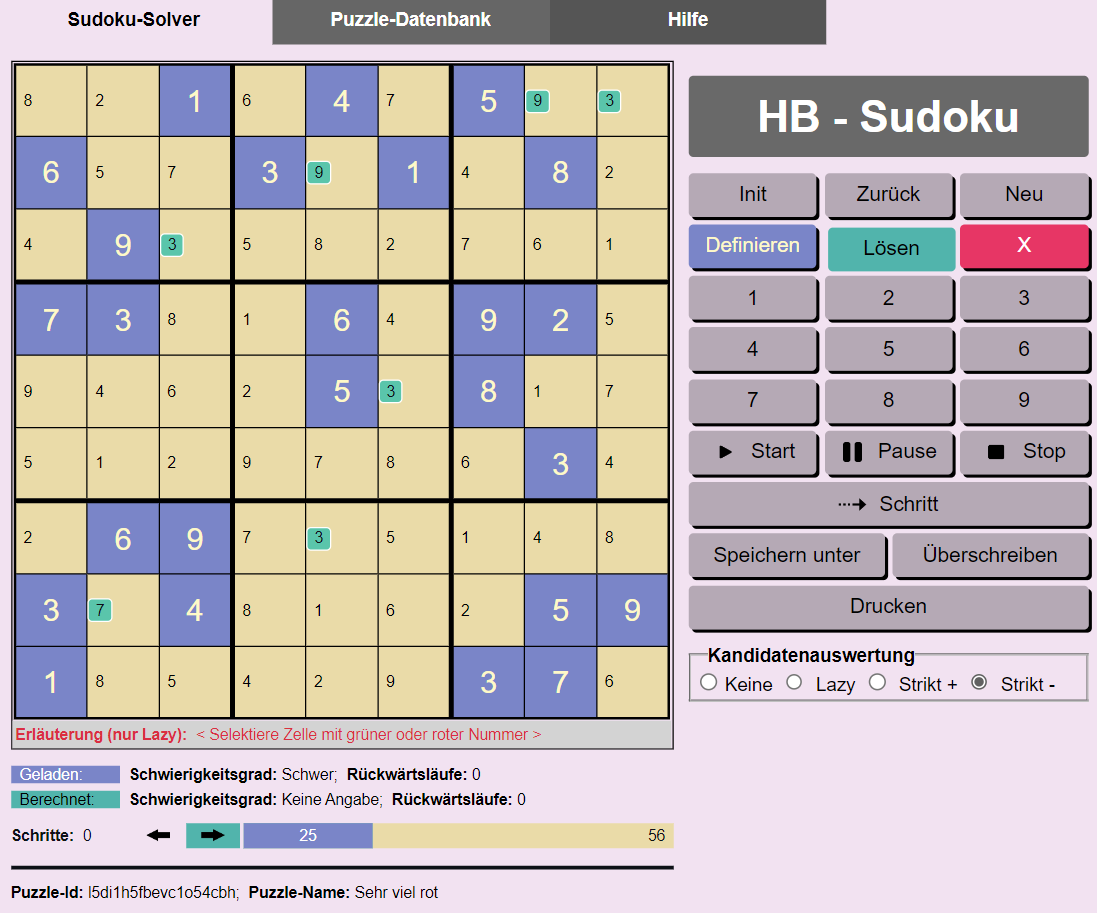
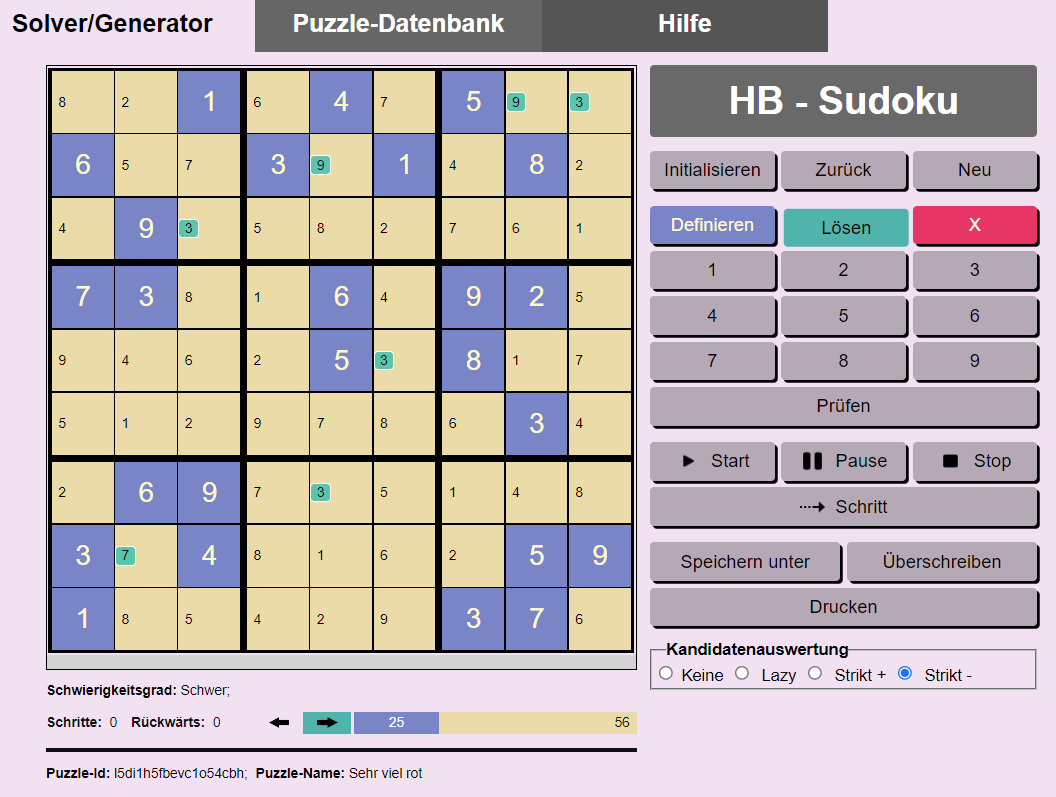
HelpUpdate

diff --git a/index.html b/index.html
@@ -22,7 +22,7 @@
     <div class="app-content">
         <div class="tablink-container">
             <!-- The 3 tabs of the app-->
-            <button class="tablink noprint tablinksolver" id="sudoku-grid-tab">Sudoku-Solver</button>
+            <button class="tablink noprint tablinksolver" id="sudoku-grid-tab">Solver/Generator</button>
             <button class="tablink noprint tablinkdatabase" id="puzzle-db-tab">Puzzle-Datenbank</button>
             <button class="tablink noprint tablinkhelp" id="puzzle-help-tab">Hilfe</button>
         </div>

diff --git a/help.md b/help.md
@@ -6,23 +6,23 @@ layout: default
 
 ## Ein Generator und Solver für klassisches Sudoku
 
-Wer kennt das nicht? Beim Kaffeetrinken ein Sudoku lösen. Nach jahrelanger Erfahrung ist man spürbar besser geworden. Und dann kommt ein Puzzle, manchmal sogar nur als leicht klassifiziert, und man findet partout nicht die nächste Zelle mit einer eindeutigen Nummernbelegung. Anstatt den Kaffeetisch frustriert zu verlassen, kann man die HB-Sudoku-App und den darin enthaltenen Solver nutzen. Er löst jedes Sudoku in wenigen Sekunden.
+Wer kennt das nicht? Beim Kaffeetrinken ein Sudoku lösen. Nach jahrelanger Erfahrung ist man spürbar besser geworden. Und dann kommt ein Puzzle, manchmal sogar nur als leicht klassifiziert, und man findet partout nicht die nächste Zelle mit einer eindeutigen Nummernbelegung. Anstatt den Kaffeetisch frustriert zu verlassen, kann man die HB-Sudoku-App und den darin enthaltenen Solver nutzen, auf dem PC oder mit dem Smartphone. Die App löst jedes Sudoku-Puzzle in wenigen Sekunden.
 
 Das tun andere Sudoku-Solver auch. Die Besonderheit des HB-Sudoku-Solvers besteht darin, dass man ihm bei der Lösungssuche zuschauen kann. Schritt für Schritt kann man beobachten und verstehen, wie der Solver zur Lösung des Sudokus gelangt. Alternativ kann man sich auch einfach nur einen nächsten möglichen Schritt zeigen lassen und dann von Hand weitermachen.
 
 Zusammen mit der Lösung bestimmt der Solver den tatsächlichen Schwierigkeitsgrad des Sudokus. Sehr schwere Sudokus - Definition siehe unten - sind manuell kaum zu lösen. Sie sollten daher kein Grund für Frust sein. Konsequenz: Mit der HB-Sudoku-App macht das Sudokulösen Spaß, auch wenn mal ein schweres Puzzle dabei ist.
 
-Der Generator generiert faire Puzzles mit den Schwierigkeitsgraden Leicht, Mittel und Schwer. Im Gegensatz zu sehr schweren oder extrem schweren Puzzles - Definition der Schwierigkeitsgrade erfolgt weiter unten - können die generierten Puzzles allein durch logisches Schließen gelöst werden. Sie benötigen kein "Trial and Error", kein Raten und Probieren.
+Der Generator generiert faire Puzzles mit den Schwierigkeitsgraden Leicht, Mittel und Schwer. Im Gegensatz zu Sehr Schweren oder Extrem Schweren Puzzles - Definition der Schwierigkeitsgrade erfolgt weiter unten - können die generierten Puzzles allein durch logisches Schließen gelöst werden. Sie benötigen kein "Back-Tracking", kein kein Raten und Probieren.
 
 ## App-Überblick
 
 ![Anwendungsansicht](./images/AppView.png)
 
-Die HB-Sudoku-App besteht aus zwei Komponenten, dem Sudoku-Solver/Generator und der Puzzle-Datenbank. Mit Hilfe des Sudoku-Solvers kann man beliebige Sudoku-Puzzles, manuell oder automatisch lösen. Mittels des Sudoku-Generators kann man neue Puzzles generieren. In der Puzzle-Datenbank können Puzzles mit ihren Eigenschaften, etwa dem Schwierigkeitsgrad, den benötigten Lösungsschritten und der Lösung selbst gespeichert werden.
+Die HB-Sudoku-App besteht aus zwei Komponenten, dem Solver/Generator und der Puzzle-Datenbank. Mit Hilfe des Solvers kann man beliebige Sudoku-Puzzles manuell oder automatisch lösen. Mittels des Generators kann man neue Puzzles generieren. In der Puzzle-Datenbank können Puzzles mit ihren Eigenschaften, etwa dem Schwierigkeitsgrad, den benötigten Lösungsschritten und der Lösung selbst gespeichert werden.
 
-## Der Sudoku-Solver
+## Der Solver
 
-Ein Sudoku (oder auch Puzzle) ist eine partiell gefüllte Tabelle. Die Tabelle hat 9 Reihen, 9 Spalten und 9 Blöcke. Die initial gesetzten Nummern heißen Givens. Sie werden blau unterlegt angezeigt. Grün unterlegte Zellen enthalten Lösungsnummern, die vom Spieler oder dem Solver gesetzt wurden. Reihen, Spalten und Blöcke haben einen gemeinsamen Oberbegriff: Die Gruppe. Jede Reihe, Spalte und jeder Block ist eine Gruppe.
+Ein Sudoku bzw. ein Puzzle ist eine partiell gefüllte Tabelle. Die Tabelle hat 9 Reihen, 9 Spalten und 9 Blöcke. Die initial gesetzten Nummern heißen Givens. Sie werden blau unterlegt angezeigt. Grün unterlegte Zellen enthalten Lösungsnummern, die vom Spieler oder dem Solver gesetzt wurden. Reihen, Spalten und Blöcke haben einen gemeinsamen Oberbegriff: Die Gruppe. Jede Reihe, Spalte und jeder Block ist eine Gruppe.
 
 Der Spieler kann sich bei der Lösungssuche unterstützen lassen, indem er in den noch nicht gesetzten Zellen Kandidatennummern anzeigen lässt. Kandidatennummern einer Zelle sind Nummern, die ohne Widerspruch gesetzt werden können. Damit die Kandidatennummern angezeigt werden, muss der Spieler in dem Feld Kandidatenauswertung eine Option ungleich "Keine" selektieren, beispielsweise "Lazy". Weiter unten wird das Konzept der Kandidatenauswertung im Detail eingeführt.
 
@@ -60,7 +60,7 @@ Die nachfolgend verwendeten Begriffe sind im Laufe der Entwicklung dieses Solver
 |<img src="./images/direkterSingle.png" width="100px"/> <img src="./images/indirekterSingle.png" width="100px"/>| **Single:** Eine Single-Nummer ist der Kandidat in einer Zelle, wenn es keine weiteren Kandidaten in der Zelle gibt. In den beiden nebenstehenden Beispielen sind die 1 und die 9 Singles. Im Gegensatz zur 1 ist die 9 ein **Verstecktes Single**. Die 9 ist in dieser Zelle ein verstecktes Single, weil die anderen Kandidaten, die rote 5 und 6, indirekt unzulässig sind. |
 |<img src="./images/nochoice.png" width="100px"/><img src="./images/nochoice2.png" width="100px"/>|**Widerspruch - Überhaupt keine zulässige Nummer:** Für diese Zelle wurde noch keine Nummer gesetzt. Allerdings gibt es keine Kandidatnummer mehr, die noch gesetzt werden könnte. Die Nummern 4 und 8 sind unzulässig. In der zweiten dargestellten Zelle gibt es nicht mal mehr Kandidatnummern. D.h. das Sudoku ist widersprüchlich. Wenn das Sudoku noch erfolgreich gelöst werden soll, müssen ein oder mehrere der bisherigen Nummernsetzungen zurückgenommen werden. Tritt während der automatischen Ausführung eine solche Zelle auf, schaltet der Solver in den Rückwärts-Modus um.|
 |<img src="./images/twoNeccessary.png" width="100px"/>|**Widerspruch - Gleichzeitig verschiedene notwendige Nummern:** Für diese Zelle wurde noch keine Nummer gesetzt. Kandidatnummern sind 1, 2 und 4. Jedoch hat der Solver zwei verschiedene notwendige Nummern für diese Zelle ermittelt: 1 und 2. Das geht natürlich nicht. Es können in einer Zelle nicht zwei Nummern gleichzeitig gesetzt werden. D.h. das Sudoku ist widersprüchlich. Wenn das Sudoku noch erfolgreich gelöst werden soll, müssen ein oder mehrere der bisherigen Nummernsetzungen zurückgenommen werden. Tritt während der automatischen Ausführung eine solche Zelle auf, schaltet der Solver in den Rückwärts-Modus um.|
-|<img src="./images/conflct.png" width="100px"/>|**Widerspruch - Die Nummer 3 ist bereits einmal gesetzt:** Für diese Zelle wurde die Nummer 3 gesetzt. Diese Nummer ist direkt unzulässig, weil in der Spalte, Reihe oder dem Block dieser Zelle bereits eine 3 gesetzt ist. Das zweite oder dritte Auftreten der Nummer wird ebenfalls mit rotem Rand angezeigt.|
+|<img src="./images/conflct.png" width="100px"/>|**Widerspruch - Die Nummer 5 ist bereits einmal gesetzt:** Für diese Zelle wurde die Nummer 5 gesetzt. Diese Nummer ist direkt unzulässig, weil in der Spalte, Reihe oder dem Block dieser Zelle bereits eine 5 gesetzt ist. Das zweite oder dritte Auftreten der Nummer wird ebenfalls mit rotem Rand angezeigt.|
 ||**Prüfen - Die Nummer ist falsch gesetzt, wie die Prüfen-Taste ermittelt hat:** Wenn ein Spieler ohne die Kandidaten-Nummern manuell die Nummern setzt, kann er jederzeit mittels der Prüfen-Taste ermitteln, ob alle seine bisherigen Nummern korrekt gesetzt sind. Alle nicht korrekten Setzungen werden wie der Widerspruch angezeigt.|
 
 ### Zwei Phasen
@@ -74,7 +74,7 @@ Hinweis: Gegebene Nummern, die Givens - dies sind blaue Nummern - können in der
 
 ### Manuelle Ausführung
 
-Manuelle Ausführung bedeutet, dass der Spieler die Nummern in den Zellen setzt. Die manuelle Ausführung wird in jedem Fall in der Definitionsphase genutzt. In der Lösungsphase ist sie optional. Die Lösungsphase kann alternativ auch automatisch durchgeführt werden. D.h. der Solver setzt die Nummern in den Zellen.
+Manuelle Ausführung bedeutet, dass der Spieler die Lösungsnummern (grün) in den Zellen setzt. Die Lösungsphase kann alternativ auch automatisch durchgeführt werden. D.h. der Solver setzt die Lösungsnummern in den Zellen.
 
 ### Manuelle Ausführung ohne Kandidatennummern
 
@@ -84,7 +84,7 @@ Indem man die Kandidatenauswertung auf 'Keine' setzt, wird die Kandidatenanzeige
 
 |Taste  |Bedeutung  |
 |---------|---------|
-|**Start**|Der Solver startet den automatischen Lösungssuchprozess. Zusätzlich wird ein Timer gestartet, der in der eingestellten Geschwindigkeit die Ausführung automatischer Suchschritte anstößt.|
+|**Start**|Der Solver startet den automatischen Lösungssuchprozess. Zusätzlich wird ein Timer gestartet, der die Ausführung automatischer Suchschritte anstößt.|
 |**Pause**|Der Taktgeber der automatischen Ausführung wird angehalten, nicht jedoch der Suchprozess abgebrochen. Der Spieler kann jetzt weitere automatische Suchschritte mit der Schritt-Taste von Hand anstoßen. Oder er kann durch das erneute Drücken der Start-Taste die getaktete automatische Ausführung fortsetzen.|
 |**Stop**|Der Taktgeber der automatischen Ausführung wird angehalten und der aktuelle Suchprozess wird abgebrochen.|
 |**Schritt**|Der Solver führt den nächsten automatischen Suchschritt aus. Falls noch nicht geschehen, startet er zuvor den Suchprozess überhaupt. Mit dieser Taste kann man den Solver Schritt für Schritt arbeiten lassen und so jeden einzelnen seiner Schritte beobachten und verstehen.|
@@ -102,22 +102,22 @@ Indem man die Kandidatenauswertung auf 'Keine' setzt, wird die Kandidatenanzeige
 
 ### Kandidaten und unzulässige Nummern
 
-Für eine noch nicht belegte Zelle der Sudoku-Tabelle unterscheiden wir Kandidatnummern und unzulässge Nummern. Für eine unbelegte Zelle ist eine Nummer **unzulässig**, wenn in dem Block, in der Reihe oder Spalte dieser Zelle eine andere Zelle existiert, in der diese Nummer gesetzt ist. Alle anderen Nummern heißen **Kandidatnummern (Candidates)** oder einfach **Kandidaten** dieser Zelle. In einer unbelegten Zelle werden die Kandidaten der Zelle angezeigt.
+Für eine noch nicht belegte Zelle der Sudoku-Tabelle unterscheiden wir Kandidatnummern und unzulässge Nummern. Für eine unbelegte Zelle ist eine Nummer **unzulässig**, wenn in dem Block, in der Reihe oder Spalte dieser Zelle eine andere Zelle existiert, in der diese Nummer gesetzt ist. Alle anderen Nummern heißen **Kandidatnummern** oder einfach **Kandidaten** dieser Zelle. In einer unbelegten Zelle werden die Kandidaten der Zelle angezeigt, sofern im Feld Kandidatenauswertung nicht der Wert "Keine" gesetzt ist.
 
 ### Notwendige Nummern
 
 ![Lazy notwendig](./images/lazynotwendig.png)
-Eine Kandidatnummer in einer Zelle ist notwendig, wenn die Nummer in ihrem Block, in ihrer Reihe oder Spalte einzig ist. D.h. sie kann nur hier gesetzt werden. Im Bild ist die grüne 1 notwendig, weil sie in ihrem Block kein weiteres mal zulässig ist. Im Lazy-Auswertungsmodus zeigt der Solver den die Notwendigkeit verursachenden Block, Spalte oder Reihe an, wenn man die Zelle mit der notwendigen Nummer selektiert hat.
+Eine Kandidatnummer in einer Zelle ist notwendig, wenn die Nummer in ihrem Block, in ihrer Reihe oder Spalte einzig ist. D.h. sie kann nur hier gesetzt werden. Im Bild ist die grüne 1 notwendig, weil sie in ihrem Block kein weiteres mal zulässig ist. Im Lazy-Auswertungsmodus zeigt der Solver den die Notwendigkeit verursachenden Block, Spalte oder Reihe an, wenn man die Zelle mit der notwendigen Nummer selektiert hat. Die Zellen des Blocks besitzen einen grün gestrichelten Rahmen.
 
 ### Unzulässige Kandidaten
 
-**Direkt unzulässige Nummern** sind Nummern, die in einem Block, in einer Spalte oder Reihe bereits einmal existieren. Direkt unzulässige Nummern können keine Kandidaten sein. Es gibt jedoch auch unzulässige Kandidaten. **Unzulässige Kandidaten** werden rot angezeigt. Eine Kandidatnummer ist (indirekt) unzulässig, wenn ihre Setzung in der Zelle das Puzzle widerspruchsvoll macht.
+**Direkt unzulässige Nummern** sind Nummern, die in einem Block, in einer Spalte oder Reihe bereits einmal existieren. Direkt unzulässige Nummern können keine Kandidaten sein. Es gibt jedoch auch unzulässige Kandidaten. **Unzulässige Kandidaten** werden in roter Schrift angezeigt. Eine Kandidatnummer ist (indirekt) unzulässig, wenn ihre Setzung in der Zelle das Puzzle widerspruchsvoll macht.
 
 In fairen Puzzles kann man unzulässige Kandidaten allein durch logisches Schließen unter Anwendung definierter Kriterien ohne Backtracking erkennen. In der Literatur werden zahlreiche Kriterien genannt. Grundsätzlich ist die rein logische Erkennung der Unzulässigkeit von Kandidaten unvollständig. D.h. es gibt so schwere Puzzles, dass nicht alle unzulässigen Kandidaten mittels der Anwendung von Kriterien erkannt werden können. Solche Sudokus können nur durch Backtracking gelöst werden. Der vorliegende Solver unterstützt nachfolgend beschriebene Kriterien für das Erkennen der Unzulässigkeit von Kandidaten. Falls diese für das Lösen eines konkreten Puzzles nicht ausreichen, löst der Solver das Puzzle durch Backtracking.
 
 1. **Kriterium: Unzulässig wegen notwendiger Nummer.** Eine Kandidatnummer ist unzulässig wegen einer notwendigen Nummer, wenn sie in ihrer Spalte, Reihe oder ihrem Block auch als notwendige Nummer auftritt. Im nachfolgenden Beispiel sind die roten Nummern 1 wegen der grünen 1 unzulässig. Die grüne 1 ist notwendig, weil sie in ihrem Block einzig ist, also in dem Block kein weiteres mal zulässig ist.![Indirekt wegen notwendig](./images/indirektwgnotwendig.png)
 
-1. **Kriterium: Unzulässig wegen "Nacktes Paar".** Eine Kandidatnummer ist unzulässig, wenn es in einem Block, einer Reihe oder Spalte Paare gibt und Nummern dieser Paare zusätzlich in weiteren Zellen dieses Blocks, dieser Spalte oder Reihe auftauchen. Im nachfolgenden Beispiel ist das 2-8-Paar ein nacktes Paar. Das 2-8-Paar macht in seiner Spalte alle 2 und 8 unzulässig. Der Grund: Das Paar bedeutet, dass die 2 und die 8 auf jeden Fall in einer der beiden Zellen des Paares gesetzt werden muss. Aktuell steht nur noch nicht fest, ob die 2 oder die 8 oben ist. Fest steht aber jetzt schon, dass in den übrigen Zellen der Spalte keine 2 oder 8 mehr vorkommen können. Die 2 und 8 sind hier unzulässig. Diese Spaltendarstellung mit den gestrichelten Kanten zeigt der Solver nur im Lazy-Auswertungsmodus, wenn man eine Zelle mit unzulässigen Nummern selektiert hat.![Indirekt unzulässig](./images/indirektWegenPairing.png)
+1. **Kriterium: Unzulässig wegen "Nacktes Paar".** Eine Kandidatnummer ist unzulässig, wenn es in einem Block, einer Reihe oder Spalte Paare gibt und Nummern dieser Paare zusätzlich in weiteren Zellen dieses Blocks, dieser Spalte oder Reihe auftauchen. Im Beispiel ist das 2-8-Paar ein nacktes Paar. Das 2-8-Paar macht in seiner Spalte alle 2 und 8 unzulässig. Der Grund: Das Paar bedeutet, dass die 2 und die 8 auf jeden Fall in einer der beiden Zellen des Paares gesetzt werden muss. Aktuell steht nur noch nicht fest, ob die 2 oder die 8 oben ist. Fest steht aber jetzt schon, dass in den übrigen Zellen der Spalte keine 2 oder 8 mehr vorkommen können. Die 2 und 8 sind hier unzulässig. Diese Spaltendarstellung mit den gestrichelten Kanten zeigt der Solver nur im Lazy-Auswertungsmodus, wenn man eine Zelle mit unzulässigen Nummern selektiert hat.![Indirekt unzulässig](./images/indirektWegenPairing.png)
 
 1. **Kriterium: Unzulässig wegen "Verstecktes Paar".** In einem Block, einer Spalte oder Reihe kann es ein verstecktes Paar geben. Ein verstecktes Paar besteht aus zwei Zellen, die zwei gemeinsame Nummern haben, im Beispiel 1 und 8, die in den übrigen Zellen nicht vorkommen. Daneben können sie weitere Nummern haben. Am Ende können in diesen beiden Zellen nur die beiden Nummern 1 und 8 untergebracht werden. Deshalb müssen die übrigen Nummern der beiden Zellen eliminiert werden.
 ![Verstecktes Paar](./images/hiddenpair.png)
@@ -131,7 +131,7 @@ Unter Kandidatenauswertung verstehen wir die Anwendung der Kriterien, die im vor
 
 1. **Keine** Kandidatenauswertung. Der Solver arbeitet ohne Kandidaten. Diese Option ist wünschenswert, wenn der Spieler ohne Hilfe des Solvers eine manuelle Lösung des Puzzles suchen will. In diesem Modus werden in den Zellen keine Kandidaten angezeigt.
 
-1. **Lazy** Kandidatenauswertung. Wenn die Anzahl unzulässiger Kandidaten (die roten Nummern) groß wird, wird es immer schwieriger, nackte Paare oder versteckte Paare zu erkennen. Die Lazy-Auswertungsmethode praktiziert eine verzögerte Auswertung. Die Auswertung erfolgt nur soweit, bis die nächste notwendige Nummer oder die nächste Single-Nummer oder die nächste versteckte Single-Nummer bestimmt ist. Nur im Lazy-Modus, sind die oben gezeigten Beispiele mit ihren Erläuterungen der Kandidatennummern sinnvoll visualisierbar.
+1. **Lazy** Kandidatenauswertung. Wenn die Anzahl unzulässiger Kandidaten (die roten Nummern) groß wird, wird es immer schwieriger, nackte Paare oder versteckte Paare zu erkennen. Die Lazy-Auswertungsmethode praktiziert eine verzögerte Auswertung. Die Auswertung erfolgt nur soweit, bis die nächste notwendige Nummer oder die nächste Single-Nummer oder die nächste versteckte Single-Nummer bestimmt ist. Nur im Lazy-Modus, werden in den oben gezeigten Beispielen die Erläuterungen der Kandidatennummern angezeigt.
 
 1. **Strikt +**: Diese Auswertungsmethode führt eine vollständige Auswertung durch. Alle aktuell unzulässigen Kandidaten, alle notwendigen Nummern, alle Singles und versteckten Singles werden ermittelt und angezeigt.
 
@@ -141,7 +141,7 @@ Das nachfolgende Bild zeigt ein Puzzle im Strikt-Plus-Auswertungsmodus. Bei gena
 
 ![strictplus](./images/strictplus.png)
 
-Das nachfolgende Bild zeigt die vorige Tabelle im Strikt-Minus-Modus. Im Strikt-Minus-Modus ist unmittelbar sichtbar, dass alle Zellen dieses Beispiels nur noch genau eine zulässige Nummer haben. Alle Nummern sind Singles. Mit anderen Worten: wir sehen hier die Lösung des Sudokus. Der Solver präsentiert hier eine Lösung ohne Backtracking. Die meisten leichten und mittleren Sudokus in den Zeitschriften können ohne Backtracking gelöst werden.
+Das nachfolgende Bild zeigt die vorige Tabelle im Strikt-Minus-Modus. Im Strikt-Minus-Modus ist unmittelbar sichtbar, dass alle Zellen dieses Beispiels nur noch genau eine zulässige Nummer haben. Alle Nummern sind Singles. Mit anderen Worten: wir sehen hier die Lösung des Sudokus. Der Solver präsentiert hier eine Lösung ohne Backtracking. Nur die zuvor erläuterten Kriterien für unzulässige Kandidaten wurden angewandt.
 
 ![Strikt Minus](./images/striktminus.png)
 
@@ -149,7 +149,7 @@ Das nachfolgende Bild zeigt die vorige Tabelle im Strikt-Minus-Modus. Im Strikt-
 
 Wir vergleichen die jeweiligen Vorteile der Auswertungsmodi.
 
-**Vorteil der Lazy-Auswertung: Nachvollziehbarkeit des Lösungsweges.** Die Lazy-Auswertung ist vorteilhaft, wenn man den Lösungsweg im Einzelnen nachvollziehen will. Es werden nur unzulässige Kandidaten berechnet und angezeigt, die für den nächsten Schritt relevant sind. Für diese wenigen unzulässigen Kandidaten ist ihre Verursachung leicht visuell darstellbar und damit verstehbar, beispielsweise ein (nacktes) Paar.
+**Vorteil der Lazy-Auswertung: Nachvollziehbarkeit des Lösungsweges.** Die Lazy-Auswertung ist vorteilhaft, wenn man den Lösungsweg im Einzelnen nachvollziehen will. Es werden nur unzulässige Kandidaten berechnet und angezeigt, die für den nächsten Schritt relevant sind. Für diese wenigen unzulässigen Kandidaten ist ihre Verursachung leicht visuell darstellbar und damit verstehbar.
 
 Im Lazy-Modus wird die Verursachung notwendiger Nummern oder unzulässiger Kandidaten angezeigt durch gestrichelte Border, wenn die Zelle der notwendigen Nummer oder unzulässigen Nummer selektiert ist. Durch erneutes Klicken der selektierten Zelle können die Ursachen der notwendigen und unzulässigen Kandidaten der Reihe nach jeweils angezeigt werden. Wenn alle Kandidaten angezeigt wurden, führt das erneute Klicken der Zelle zur Deselektion der Zelle.
 
@@ -218,14 +218,14 @@ Wenn man bei der manuellen Lösung eines Sudokus nicht weiterkommt, kann man den
 1. **Leicht:** Nur durch die Bestimmung notwendiger Nummern kann die Lösung des Sudokus erreicht werden.
 1. **Mittel:** Durch die Bestimmung notwendiger Nummern und mindestens eines direkten Singles kann die Lösung des Sudokus erreicht werden.
 1. **Schwer:** Bei diesem Schwierigkeitsgrad benötigt der Solver mindestens ein indirektes Single. Für die Bestimmung von indirekten Singles müssen unzulässige Kandidaten (rot dargestellt) bestimmt werden. Dies unterscheidet diesen Schwierigkeitsgrad vom Schwierigkeitsgrad Mittel. Zugleich ist dies der höchste Schwierigkeitsgrad, der ohne Backtracking auskommt.
-1. **Sehr Schwer:** Bei diesem Schwierigkeitsgrad muss der Solver für mindestens eine Zelle eine Nummer raten und ausprobieren. "Trial and error" oder "Backtracking" sind die dazugehörigen Stichworte. Der Solver führt für die Berechnung der Lösung unter Umständen zahlreiche Rückwärtsläufe durch.
+1. **Sehr Schwer:** Bei diesem Schwierigkeitsgrad muss der Solver für mindestens eine Zelle eine Nummer raten und ausprobieren. "Backtracking" ist das dazugehörige Stichwort. Der Solver führt für die Berechnung der Lösung unter Umständen zahlreiche Rückwärtsläufe durch.
 1. **Extrem Schwer**: Extrem schwer sind Sudokus, die mehrere Lösungen haben. Sie haben keine eindeutige Lösung. Der Solver beherrscht auch Sudokus, die mehrere Lösungen haben. Nach der Erfolgsmeldung mit der ersten Lösung kann der Anwender nach der nächsten Lösung suchen lassen, solange bis der Solver meldet: "*Keine weitere Lösung gefunden*".
 
-Extrem oder sehr schwere Sudokus eignen sich nicht für die manuelle Lösungssuche. Die in den Zeitungen oder Zeitschriften als Leicht, Mittel oder Schwer klassifizierten Sudoku-Aufgaben sind meistens in dem hier dargestellten Sinn Leicht oder Mittel. Selten auch einmal Schwer. D.h. die Zeitungs-Sudokus können in der Regel ohne Backtracking gelöst werden.
+Extrem oder sehr schwere Sudokus eignen sich nicht für die manuelle Lösungssuche. Backtracking mit Papier und Bleistift kann niemandem zugemutet werden. Die in den Zeitungen oder Zeitschriften als Leicht, Mittel oder Schwer klassifizierten Sudoku-Aufgaben sind meistens in dem hier dargestellten Sinn Leicht oder Mittel. Selten auch einmal Schwer. D.h. die Zeitungs-Sudokus können in der Regel ohne Backtracking gelöst werden.
 
 ## Der Sudoku-Generator
 
-Nahtlos integriert in den Sudoku-Solver findet sich ein Sudoku-Generator. Mittels der Taste **Neu** kann ein neues Puzzle generiert werden. Der Generator generiert nur Puzzles mit den Schwierigkeitsgraden 'Leicht', 'Mittel' und 'Schwer'. Also keine sehr schweren Puzzles. Die generierten Puzzles können daher allein durch logisches Schließen ohne Backtracking gelöst werden.
+Nahtlos integriert in den Sudoku-Solver findet sich ein Sudoku-Generator. Mittels der Taste **Neu** kann ein neues Puzzle generiert werden. Der Generator generiert nur Puzzles mit den Schwierigkeitsgraden 'Leicht', 'Mittel' und 'Schwer'. Also keine sehr schweren Puzzles. D.h. die generierten Puzzles können daher allein durch logisches Schließen ohne Backtracking gelöst werden.
 
 Der Generator kann nicht gezielt ein Puzzle mit bestimmtem Schwierigkeitsgrad herstellen. Die generierten Puzzles haben zufällig einen der Schwierigkeitsgrade 'Leicht', 'Mittel' oder 'Schwer'. Wenn man einen bestimmten Schwierigkeitsgrad wünscht, muss man gegebenenfalls mehrere Generierungen veranlassen, bis der gewünschte Schwierigkeitsgrad dabei ist.
 
@@ -263,12 +263,12 @@ Beim Abspeichern kann dem Puzzle ein Name gegeben werden. Automatisch erhält es
 
 Auf dem Smartphone ist der Solver/Generator als Web-Anwendung verfügbar. Also in einem Browser die URL eingeben. Die Funktionalität ist bis auf die Puzzle-Datenbank identisch.
 
-In der Smartphone-Version kann das aktuelle Puzzle gespeichert werden. Dabei wird ein eventuell schon vorher gespeichertes Puzzle überschrieben. Es kann also nur ein Puzzle gespeichert werden. Dies ermöglicht die Speicherung eines aktuellen Puzzles, um es vielleicht später analysieren zu können.
+In der Smartphone-Version kann das aktuelle Puzzle gespeichert werden. Dabei wird ein eventuell schon vorher gespeichertes Puzzle überschrieben. Es kann also nur ein Puzzle gespeichert werden. Dies ermöglicht die Speicherung eines aktuellen Puzzles, um es vielleicht später nach einer Pause wieder aufnehmen zu können.
 
 ## Sudoku im Internet
 
 Eine herausragende Seite für Sudoku-Interessierte ist die Seite von [Andrew Stuart](https://www.sudokuwiki.org/Main_Page). Dort findest Du einen kompletten Überblick über logische Lösungsstrategien für klassisches Sudoku und auch einen Überblick über nicht klassische Sudoku-Varianten.
 
-Stuarts Sudoku-Solver stellt die Anwendung logischer Lösungsstrategien in den Mittelpunkt. Ein Lösungsschritt besteht aus der Anwendung einer logischen Schlussregel. Das kann die Elimination von Kandidaten in mehreren Zellen sein aufgrund eines 'nackten Paares' oder die Setzung von 'versteckten Singles' (notwendigen Nummern) in mehreren Zellen gleichzeitig. Puzzles, die keine Lösung per logisches Schließen haben, löst der Solver (absichtlich) nicht.
+Stuarts Sudoku-Solver stellt die Anwendung logischer Lösungsstrategien in den Mittelpunkt. Ein Lösungsschritt besteht aus der Anwendung einer logischen Schlussregel. Das kann die Elimination von Kandidaten in mehreren Zellen sein aufgrund eines 'nackten Paares' oder die Setzung von 'versteckten Singles' (notwendigen Nummern) in mehreren Zellen gleichzeitig. Puzzles, die keine Lösung per logisches Schließen haben, löst der Solver (absichtlich) nicht. Echte Sudoku-Fans verzichten auf Backtracking.
 
 Stuarts Sudoku-Solver richtet sich an Sudoku-Strategie-Experten bzw. an solche, die es werden wollen. Der von mir hier präsentierte Solver/Generator wendet sich an den Gelegenheits-Sudoku-Spieler, die ein Puzzle z.B. aus einer Zeitschrift lösen wollen. Sie bekommen auf jeden Fall eine Lösung ihres Puzzles und einen Weg, wie es zu der Lösung kommt zusammen mit der Angabe des Schwierigkeitsgrades des Puzzles.
